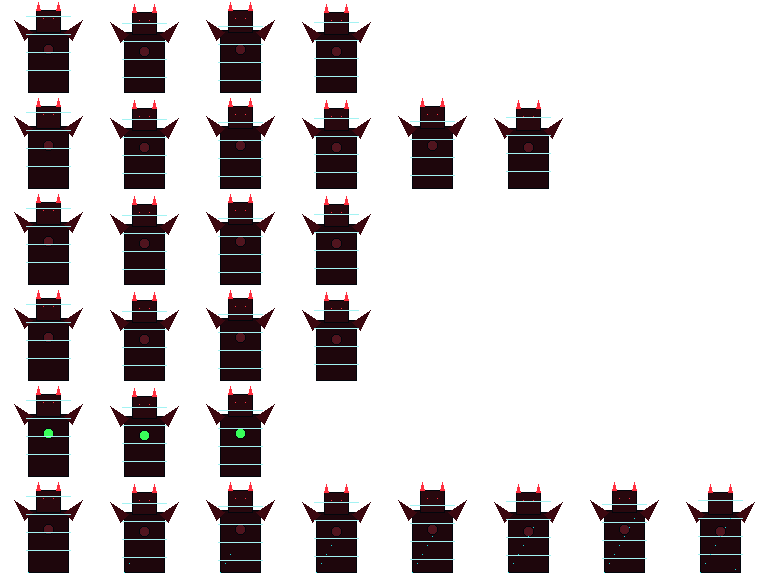
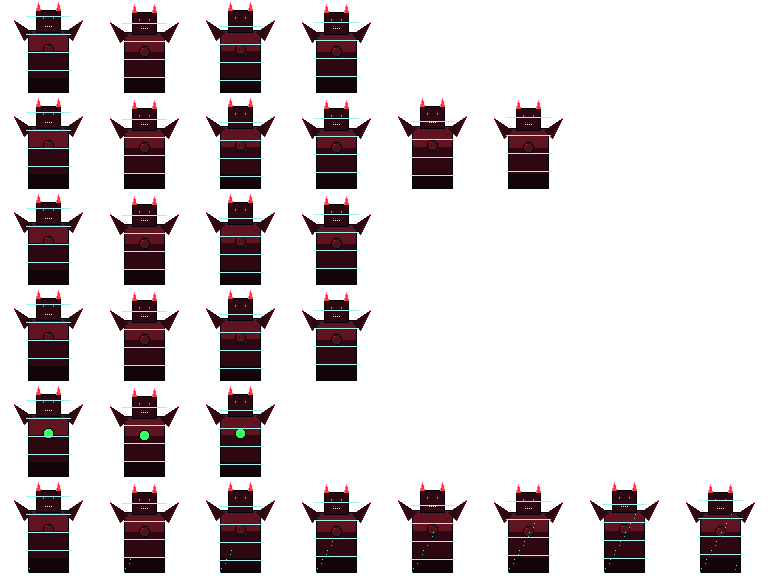
feat(art): bankers v2 - 4-tone suits, lapels, faces per enemy type
Shared suit renderer (lapels, shirt triangle, red tie, wrinkles, button),
per-type heads (junior full hair / manager balding+angry brow / auditor
glasses+gaunt / shark shaded snout+gills / AI banker visor hologram),
CEO exec upgrade (silver swept hair, jowls, gold tie, pocket square,
cufflinks) and demon ramps (lit wing edges, maw, glowing eyes).

diff --git a/tools/artgen/generate_placeholders.py b/tools/artgen/generate_placeholders.py
@@ -387,44 +387,67 @@ def draw_special_enemy_frame(d, ox, oy, size, kind, anim, i):
     bottom = oy + size - 2
     bob = i % 2
     if kind == "auditor":
-        # spiked ledger hat (anti-stomp tell)
+        # spiked ledger hat (anti-stomp tell) — metallic ramp spikes
         hat_y = bottom - 22 + bob
         for s in range(3):
             d.polygon([(cx - 5 + s * 4, hat_y), (cx - 3 + s * 4, hat_y - 4),
                        (cx - 1 + s * 4, hat_y)], fill=P.GRAY_DARK)
+            _px(d, cx - 4 + s * 4, hat_y - 2, P.GRAY_RAMP[2])  # spike glint
+        # gaunt face: gray hair fringe, cyan glasses, pinched cheeks
         _outline_rect(d, cx - 3, hat_y, cx + 3, hat_y + 6, P.SKIN)
-        _px(d, cx - 2, hat_y + 2, P.CYAN)  # glasses glint
-        _px(d, cx + 1, hat_y + 2, P.CYAN)
-        _outline_rect(d, cx - 4, hat_y + 7, cx + 4, bottom - 6, P.GRAY)
-        _rect(d, cx - 1, hat_y + 8, cx, bottom - 8, P.RED)
+        d.line([(cx - 2, hat_y + 5), (cx + 2, hat_y + 5)], fill=P.SKIN_RAMP[0])
+        _px(d, cx - 3, hat_y + 1, P.GRAY)
+        _px(d, cx + 3, hat_y + 1, P.GRAY)
+        _rect(d, cx - 2, hat_y + 2, cx - 1, hat_y + 3, P.CYAN)   # glasses
+        _rect(d, cx + 1, hat_y + 2, cx + 2, hat_y + 3, P.CYAN)
+        _px(d, cx, hat_y + 3, P.OUTLINE)  # bridge
+        _banker_suit(d, cx, hat_y + 7, bottom - 6, 4, 0)
         legs = [1, -1][i % 2] if anim == "hop_back" else 0
-        _rect(d, cx - 3 + legs, bottom - 6, cx - 1 + legs, bottom, P.GRAY_DARK)
-        _rect(d, cx + 1 - legs, bottom - 6, cx + 3 - legs, bottom, P.GRAY_DARK)
+        _rect(d, cx - 3 + legs, bottom - 6, cx - 1 + legs, bottom, P.SUIT_RAMP[0])
+        _rect(d, cx + 1 - legs, bottom - 6, cx + 3 - legs, bottom, P.SUIT_RAMP[0])
         if anim == "throw":
             arm = [2, 5, 8, 4][i]
-            _rect(d, cx + 4, hat_y + 9, cx + 4 + arm, hat_y + 11, P.GRAY)
+            shade_rect(d, cx + 4, hat_y + 9, cx + 4 + arm, hat_y + 11, P.SUIT_RAMP)
             if i == 2:
                 _outline_rect(d, cx + 9, hat_y + 6, cx + 13, hat_y + 10, P.WHITE)
+                d.line([(cx + 10, hat_y + 7), (cx + 12, hat_y + 7)], fill=P.GRAY)
         if anim == "death":
             _px(d, cx - 6, hat_y - 2, P.GOLD)
             _px(d, cx + 6, hat_y - 3, P.GOLD)
+            _px(d, cx + (i % 2), hat_y - 6, P.GOLD_RAMP[2])
     elif kind == "loan_shark":
+        shark_ramp = ((52, 70, 90, 255), (96, 120, 140, 255), (150, 178, 200, 255))
         if anim == "hidden_fin":
             d.polygon([(cx - 3, bottom), (cx, bottom - 6 - bob), (cx + 3, bottom)],
-                      fill=P.GRAY_DARK)
+                      fill=shark_ramp[0])
+            _px(d, cx, bottom - 4 - bob, shark_ramp[2])  # fin edge light
             return
         rise = {"emerge": [12, 20, 26], "lunge": [28, 30, 28],
                 "recover": [24, 22], "death": [22, 16, 10, 4]}[anim][i]
         body_top = bottom - rise
         if body_top + 8 < bottom:  # sinking death frames may have no suit left
-            _outline_rect(d, cx - 7, body_top + 8, cx + 7, bottom, P.GRAY)
-            for stripe in range(cx - 5, cx + 6, 4):  # pinstripes
-                for y in range(body_top + 9, bottom - 1, 3):
-                    _px(d, stripe, y, P.GRAY_DARK)
-        # shark head
+            # pinstripe power suit with lapels
+            shade_rect(d, cx - 7, body_top + 8, cx + 7, bottom, P.SUIT_RAMP,
+                       outline=P.OUTLINE)
+            for stripe in range(cx - 5, cx + 6, 3):  # pinstripes
+                for y in range(body_top + 10, bottom - 1, 2):
+                    _px(d, stripe, y, P.GRAY_RAMP[1])
+            d.line([(cx - 6, body_top + 9), (cx - 2, body_top + 12)],
+                   fill=P.SUIT_RAMP[0])  # lapel
+            d.line([(cx + 6, body_top + 9), (cx + 2, body_top + 12)],
+                   fill=P.SUIT_RAMP[0])
+            _rect(d, cx - 1, body_top + 10, cx, body_top + 16, P.RED)  # tie
+        # shark head: shaded snout, white belly line, gills
         d.polygon([(cx - 8, body_top + 10), (cx + 2, body_top - 2),
-                   (cx + 9, body_top + 10)], fill=(96, 120, 140, 255))
-        _px(d, cx + 3, body_top + 4, P.OUTLINE)  # eye
+                   (cx + 9, body_top + 10)], fill=shark_ramp[1])
+        d.line([(cx + 2, body_top - 2), (cx + 9, body_top + 10)],
+               fill=shark_ramp[2])  # lit snout edge
+        d.line([(cx - 8, body_top + 10), (cx + 2, body_top - 2)],
+               fill=shark_ramp[0])  # shadow edge
+        for gill in range(3):  # gill slits
+            _px(d, cx - 4 + gill, body_top + 6 + gill, shark_ramp[0])
+        _px(d, cx + 3, body_top + 4, P.WHITE)  # eye
+        _px(d, cx + 4, body_top + 4, P.OUTLINE)  # pupil
         if anim == "lunge":
             for t in range(cx - 4, cx + 5, 3):  # teeth
                 d.polygon([(t, body_top + 9), (t + 1, body_top + 6),
@@ -436,10 +459,16 @@ def draw_special_enemy_frame(d, ox, oy, size, kind, anim, i):
         top = oy + 6 + bob
         glitch = [0, 2, -2][i % 3] if anim in ("teleport_out", "teleport_in") else 0
         alpha_body = P.BLUE if anim != "stagger" else P.RED
-        _outline_rect(d, cx - 8 + glitch, top + 14, cx + 8 - glitch, bottom - 4,
-                      (20, 60, 120, 255))
-        _rect(d, cx - 1, top + 15, cx, bottom - 6, P.CYAN)  # tie line
-        _outline_rect(d, cx - 5, top, cx + 5, top + 12, (30, 80, 150, 255))
+        shade_rect(d, cx - 8 + glitch, top + 14, cx + 8 - glitch, bottom - 4,
+                   P.HOLO_RAMP, outline=P.OUTLINE)
+        # holo lapels + cyan tie
+        d.line([(cx - 7 + glitch, top + 15), (cx - 1, top + 17)], fill=P.HOLO_RAMP[0])
+        d.line([(cx + 7 - glitch, top + 15), (cx + 1, top + 17)], fill=P.HOLO_RAMP[0])
+        _rect(d, cx - 1, top + 15, cx, bottom - 6, P.CYAN)
+        _px(d, cx, bottom - 6, P.CYAN_RAMP[0])
+        # visor head
+        shade_rect(d, cx - 5, top, cx + 5, top + 12, P.HOLO_RAMP, outline=P.OUTLINE)
+        _rect(d, cx - 3, top + 4, cx + 3, top + 6, (10, 24, 50, 255))  # visor band
         _px(d, cx - 2, top + 5, alpha_body)
         _px(d, cx + 2, top + 5, alpha_body)
         # scanline glitches
@@ -449,6 +478,7 @@ def draw_special_enemy_frame(d, ox, oy, size, kind, anim, i):
         if anim == "cast" and i >= 2:
             for orb in (-12, 0, 12):
                 _px(d, cx + orb, top - 3, P.RED)
+                _px(d, cx + orb, top - 4, P.RED_RAMP[2])
         if anim == "death":
             for s in range(i + 1):
                 _px(d, cx - 8 + s * 4, bottom - 2 - (s * 5) % 14, P.CYAN)
@@ -498,50 +528,100 @@ def draw_ceo_frame(d, ox, oy, w, h, demon, anim, i):
     bottom = oy + h - 4
     bob = i % 2
     if not demon:
-        # giant suited chairman
+        # giant suited chairman — the key art's KO'd executives at full power
         lean = {"slam": [0, 2, 4, 6, 2, -4], "charge": [4, 6, 4, 6],
                 "stagger": [-6, -8, -6], "coin_volley": [0, 2, 2, 0],
                 "phase_change": [0, 0, 2, 4], "idle": [0, 1, 0, -1]}[anim][i]
         crouch = 12 if anim == "slam" and i >= 3 else 0
         body_top = oy + 30 + bob + crouch
-        _outline_rect(d, cx - 16 + lean, body_top, cx + 16 + lean, bottom, P.GRAY_DARK)
-        _rect(d, cx - 2 + lean, body_top + 4, cx + 2 + lean, bottom - 20,
-              P.GOLD if anim != "phase_change" else P.RED)  # tie
-        # arms
+        # jacket: vertical 3-band shading, dark power suit
+        vshade_rect(d, cx - 16 + lean, body_top, cx + 16 + lean, bottom,
+                    ((10, 14, 20, 255), (24, 32, 42, 255), (44, 56, 70, 255)))
+        d.rectangle([cx - 16 + lean, body_top, cx + 16 + lean, bottom],
+                    outline=P.OUTLINE)
+        # wide lapels + white shirt
+        d.line([(cx - 14 + lean, body_top + 2), (cx - 3 + lean, body_top + 9)],
+               fill=P.OUTLINE)
+        d.line([(cx + 14 + lean, body_top + 2), (cx + 3 + lean, body_top + 9)],
+               fill=P.OUTLINE)
+        d.polygon([(cx - 4 + lean, body_top + 2), (cx + 4 + lean, body_top + 2),
+                   (cx + lean, body_top + 8)], fill=P.WHITE)
+        tie = P.GOLD if anim != "phase_change" else P.RED
+        _rect(d, cx - 2 + lean, body_top + 4, cx + 2 + lean, bottom - 20, tie)
+        _rect(d, cx - 1 + lean, bottom - 20, cx + 1 + lean, bottom - 18,
+              P.GOLD_RAMP[0] if tie == P.GOLD else P.RED_RAMP[0])  # tie tip
+        _px(d, cx - 1 + lean, body_top + 5, P.GOLD_RAMP[2])  # tie knot glint
+        # pocket square
+        _rect(d, cx - 11 + lean, body_top + 8, cx - 9 + lean, body_top + 9, P.WHITE)
+        # arms with cufflink
         arm = 10 if anim in ("slam", "coin_volley") and 1 <= i <= 3 else 4
-        _rect(d, cx + 15 + lean, body_top + 10, cx + 15 + lean + arm, body_top + 16, P.GRAY_DARK)
-        # head
-        _outline_rect(d, cx - 9 + lean, body_top - 20, cx + 9 + lean, body_top - 2, P.SKIN)
-        _rect(d, cx - 9 + lean, body_top - 20, cx + 9 + lean, body_top - 15, P.GRAY)
+        shade_rect(d, cx + 15 + lean, body_top + 10, cx + 15 + lean + arm,
+                   body_top + 16, ((10, 14, 20, 255), (24, 32, 42, 255),
+                                   (44, 56, 70, 255)))
+        _px(d, cx + 14 + lean + arm, body_top + 13, P.GOLD)  # cufflink
+        # head: jowly executive, silver hair swept back
+        _outline_rect(d, cx - 9 + lean, body_top - 20, cx + 9 + lean,
+                      body_top - 2, P.SKIN)
+        d.line([(cx - 7 + lean, body_top - 4), (cx + 7 + lean, body_top - 4)],
+               fill=P.SKIN_RAMP[0])  # jowl shadow
+        _px(d, cx - 6 + lean, body_top - 8, P.SKIN_RAMP[0])  # cheek crease
+        _px(d, cx + 6 + lean, body_top - 8, P.SKIN_RAMP[0])
+        _rect(d, cx - 9 + lean, body_top - 20, cx + 9 + lean, body_top - 15,
+              P.GRAY)
+        dither_row(d, cx - 8 + lean, cx + 8 + lean, body_top - 14, P.GRAY)
+        _px(d, cx - 3 + lean, body_top - 19, P.GRAY_RAMP[2])  # hair shine
         eye = P.RED if anim in ("charge", "phase_change") else P.OUTLINE
+        # heavy brows over the eyes
+        d.line([(cx - 5 + lean, body_top - 12), (cx - 2 + lean, body_top - 12)],
+               fill=P.GRAY_RAMP[0])
+        d.line([(cx + 3 + lean, body_top - 12), (cx + 6 + lean, body_top - 12)],
+               fill=P.GRAY_RAMP[0])
         _px(d, cx - 3 + lean, body_top - 10, eye)
         _px(d, cx + 4 + lean, body_top - 10, eye)
+        d.line([(cx - 2 + lean, body_top - 5), (cx + 2 + lean, body_top - 5)],
+               fill=P.SKIN_RAMP[0])  # scowl
         if anim == "stagger":
             _px(d, cx - 12, body_top - 26 + (i % 2), P.GOLD)
             _px(d, cx + 12, body_top - 28 - (i % 2), P.GOLD)
+            _px(d, cx + (i % 2) * 4 - 2, body_top - 30, P.GOLD_RAMP[2])
     else:
-        # digital demon form: red/black with cyan glitches
+        # digital demon form: shaded red/black mass with cyan glitches
         top = oy + 10 + bob * 2
-        _outline_rect(d, cx - 20, top + 20, cx + 20, bottom, (30, 6, 12, 255))
-        d.polygon([(cx - 24, top + 30), (cx - 34, top + 10), (cx - 16, top + 22)],
-                  fill=(60, 8, 16, 255))  # wing L
-        d.polygon([(cx + 24, top + 30), (cx + 34, top + 10), (cx + 16, top + 22)],
-                  fill=(60, 8, 16, 255))  # wing R
-        _outline_rect(d, cx - 12, top, cx + 12, top + 22, (40, 8, 14, 255))
+        vshade_rect(d, cx - 20, top + 20, cx + 20, bottom, P.DEMON_RAMP)
+        d.rectangle([cx - 20, top + 20, cx + 20, bottom], outline=P.OUTLINE)
+        for wing_dir in (-1, 1):  # webbed wings with lit leading edge
+            tipx = cx + wing_dir * 34
+            d.polygon([(cx + wing_dir * 24, top + 30), (tipx, top + 10),
+                       (cx + wing_dir * 16, top + 22)], fill=P.DEMON_RAMP[1])
+            d.line([(cx + wing_dir * 24, top + 30), (tipx, top + 10)],
+                   fill=P.DEMON_RAMP[2])
+            _px(d, tipx, top + 10, P.RED)  # wing claw
+        shade_rect(d, cx - 12, top, cx + 12, top + 22, P.DEMON_RAMP,
+                   outline=P.OUTLINE)
+        # burning eyes with glow
         _px(d, cx - 5, top + 8, P.RED)
         _px(d, cx + 5, top + 8, P.RED)
-        for hrn in (-10, 10):  # horns
+        _px(d, cx - 5, top + 7, P.RED_RAMP[2])
+        _px(d, cx + 5, top + 7, P.RED_RAMP[2])
+        # jagged maw
+        for tooth in range(-3, 4, 2):
+            _px(d, cx + tooth, top + 16, P.WHITE)
+        for hrn in (-10, 10):  # ramped horns
             d.polygon([(cx + hrn - 2, top), (cx + hrn, top - 8), (cx + hrn + 2, top)],
                       fill=P.RED)
-        # core
+            d.line([(cx + hrn, top - 8), (cx + hrn - 2, top)], fill=P.RED_RAMP[2])
+        # core: green when exposed (weak point), pulsing ember otherwise
         core_col = P.GREEN if anim == "core_exposed" else (80, 20, 30, 255)
         d.ellipse([cx - 5, top + 34, cx + 5, top + 44], fill=core_col, outline=P.OUTLINE)
+        _px(d, cx - 2, top + 36,
+            P.GREEN_RAMP[2] if anim == "core_exposed" else P.RED_RAMP[1])
         for g in range(4):  # glitch scanlines
             gy = top + 6 + g * 18 + (i * 5) % 11
             _rect(d, cx - 22, gy, cx + 22, gy, (22, 224, 224, 100))
         if anim == "death":
             for s in range(i + 1):
                 _px(d, cx - 20 + s * 5, bottom - (s * 9) % 60, P.CYAN)
+                _px(d, cx - 19 + s * 5, bottom - (s * 9) % 60 - 4, (22, 224, 224, 140))
 
 
 def gen_ceo_sheets(out_dir):
@@ -571,8 +651,59 @@ def gen_monitors(path):
     img.save(path)
 
 
-def draw_banker_frame(d, ox, oy, size, anim, i, tie_color):
-    """Comedic suited banker placeholder. Gray suit, red tie (corruption)."""
+def _banker_suit(d, cx, body_top, bottom, bw, lean, tie=P.RED):
+    """Shared suit rendering: 4-tone jacket, lapels, shirt triangle, red tie,
+    wrinkle pixels — the KO'd bankers of the key art, upright."""
+    shade_rect(d, cx - bw + lean, body_top, cx + bw + lean, bottom, P.SUIT_RAMP,
+               outline=P.OUTLINE)
+    # lapels: dark V from the shoulders
+    d.line([(cx - bw + 1 + lean, body_top + 1), (cx - 1 + lean, body_top + 3)],
+           fill=P.SUIT_RAMP[0])
+    d.line([(cx + bw - 1 + lean, body_top + 1), (cx + 1 + lean, body_top + 3)],
+           fill=P.SUIT_RAMP[0])
+    # white shirt triangle + tie
+    d.polygon([(cx - 1 + lean, body_top + 1), (cx + 1 + lean, body_top + 1),
+               (cx + lean, body_top + 3)], fill=P.WHITE)
+    _rect(d, cx - 1 + lean, body_top + 2, cx + lean, bottom - 3, tie)
+    _px(d, cx + lean, bottom - 3, P.RED_RAMP[0] if tie == P.RED else P.GOLD_RAMP[0])
+    # suit wrinkles
+    _px(d, cx - bw + 2 + lean, bottom - 3, P.SUIT_RAMP[0])
+    _px(d, cx + bw - 2 + lean, bottom - 5, P.SUIT_RAMP[0])
+    # jacket button
+    _px(d, cx + 2 + lean, bottom - 4, P.GRAY_RAMP[2])
+
+
+def _banker_head(d, cx, head_y, lean, kind, dizzy, i):
+    """6x7 banker head with per-type features. dizzy = KO stars + X eyes."""
+    _outline_rect(d, cx - 3 + lean, head_y, cx + 3 + lean, head_y + 6, P.SKIN)
+    d.line([(cx - 2 + lean, head_y + 5), (cx + 2 + lean, head_y + 5)],
+           fill=P.SKIN_RAMP[0])  # jaw shadow
+    if kind == "junior":
+        # young: full dark hair with shine
+        _rect(d, cx - 3 + lean, head_y, cx + 3 + lean, head_y + 1, P.CHRIS_HAIR_RAMP[1])
+        _px(d, cx - 1 + lean, head_y, P.CHRIS_HAIR_RAMP[2])
+    else:
+        # manager: balding — gray side tufts, shiny scalp, comb-over strands
+        _px(d, cx - 3 + lean, head_y + 1, P.GRAY)
+        _px(d, cx + 3 + lean, head_y + 1, P.GRAY)
+        _px(d, cx - 1 + lean, head_y, P.SKIN_RAMP[2])  # scalp shine
+        dither_row(d, cx - 2 + lean, cx + 2 + lean, head_y, P.GRAY, phase=i % 2)
+    if dizzy:
+        # X eyes
+        _px(d, cx + 1 + lean, head_y + 3, P.OUTLINE)
+        _px(d, cx - 2 + lean, head_y + 3, P.OUTLINE)
+    else:
+        _px(d, cx + 1 + lean, head_y + 3, P.OUTLINE)
+        _px(d, cx + 3 + lean, head_y + 3, P.OUTLINE)
+        if kind == "manager":
+            # permanent angry brow
+            d.line([(cx + 1 + lean, head_y + 2), (cx + 3 + lean, head_y + 2)],
+                   fill=P.RED_RAMP[0])
+
+
+def draw_banker_frame(d, ox, oy, size, anim, i, kind):
+    """Comedic suited banker — the key art's KO'd villains, animated.
+    kind: 'junior' (young, briefcase) or 'manager' (balding, bulkier)."""
     cx = ox + size // 2
     bottom = oy + size - 2
     bob = i % 2
@@ -591,31 +722,29 @@ def draw_banker_frame(d, ox, oy, size, anim, i, tie_color):
         bob = [0, 1, 0][i % 3]
     body_h = size // 2
     body_top = bottom - body_h - 6 + bob
-    # legs
-    _rect(d, cx - 3 + legs // 2, bottom - 6, cx - 1 + legs // 2, bottom, P.GRAY_DARK)
-    _rect(d, cx + 1 - legs // 2, bottom - 6, cx + 3 - legs // 2, bottom, P.GRAY_DARK)
-    # suit body
-    _outline_rect(d, cx - 4 + lean, body_top, cx + 4 + lean, bottom - 6, P.GRAY)
-    # tie
-    _rect(d, cx - 1 + lean, body_top + 1, cx + lean, bottom - 8, tie_color)
+    bw = 4 if size <= 24 else 5
+    # legs: pressed trousers + shoes with shine
+    for leg_x, off in ((cx - 3, legs // 2), (cx + 1, -legs // 2)):
+        _rect(d, leg_x + off, bottom - 6, leg_x + 2 + off, bottom - 1, P.SUIT_RAMP[0])
+        _rect(d, leg_x + off, bottom - 1, leg_x + 2 + off, bottom, P.OUTLINE)
+        _px(d, leg_x + off, bottom - 1, P.GRAY_RAMP[1])  # shoe shine
+    _banker_suit(d, cx, body_top, bottom - 6, bw, lean)
     # briefcase (walk/panic)
     if anim in ("walk", "panic_run"):
-        _outline_rect(d, cx + 5 + lean, body_top + 4 + bob, cx + 9 + lean,
-                      body_top + 8 + bob, P.GRAY_DARK)
-    # head
-    head_y = body_top - 7
-    _outline_rect(d, cx - 3 + lean, head_y, cx + 3 + lean, head_y + 6, P.SKIN)
-    _rect(d, cx - 3 + lean, head_y, cx + 3 + lean, head_y + 1, P.GRAY)  # hair
+        shade_rect(d, cx + bw + 1 + lean, body_top + 4 + bob, cx + bw + 5 + lean,
+                   body_top + 8 + bob, ((26, 18, 10, 255), (58, 40, 22, 255),
+                                        (96, 68, 38, 255)), outline=P.OUTLINE)
+        _px(d, cx + bw + 3 + lean, body_top + 4 + bob, P.GOLD)  # clasp
+    dizzy = anim in ("wall_stun", "death")
+    _banker_head(d, cx, body_top - 7, lean, kind, dizzy, i)
     if anim == "alert":
         # red !! telegraph
         _rect(d, cx - 1, oy + 1, cx, oy + 4 + (i % 2), P.RED)
-    if anim in ("wall_stun", "death"):
-        # dizzy stars
-        _px(d, cx - 5, head_y - 2 + (i % 2), P.GOLD)
-        _px(d, cx + 5, head_y - 3 - (i % 2), P.GOLD)
-    else:
-        _px(d, cx + 1 + lean, head_y + 3, P.OUTLINE)
-        _px(d, cx + 3 + lean, head_y + 3, P.OUTLINE)
+    if dizzy:
+        # gold dizzy stars (the key art's signature KO gag)
+        _px(d, cx - 5, body_top - 9 + (i % 2), P.GOLD)
+        _px(d, cx + 5, body_top - 10 - (i % 2), P.GOLD)
+        _px(d, cx + (i % 2) * 2 - 1, body_top - 12, P.GOLD_RAMP[2])
 
 
 def gen_enemy_sheets(out_dir):
@@ -626,9 +755,10 @@ def gen_enemy_sheets(out_dir):
         cols = max(f for _, f in spec["anims"])
         img = Image.new("RGBA", (cols * size, len(spec["anims"]) * size), P.TRANSPARENT)
         d = ImageDraw.Draw(img)
+        kind = "junior" if name == "junior_banker" else "manager"
         for row, (anim, frames) in enumerate(spec["anims"]):
             for i in range(frames):
-                draw_banker_frame(d, i * size, row * size, size, anim, i, P.RED)
+                draw_banker_frame(d, i * size, row * size, size, anim, i, kind)
         img.save(f"{out_dir}/{name}.png")
 
 
